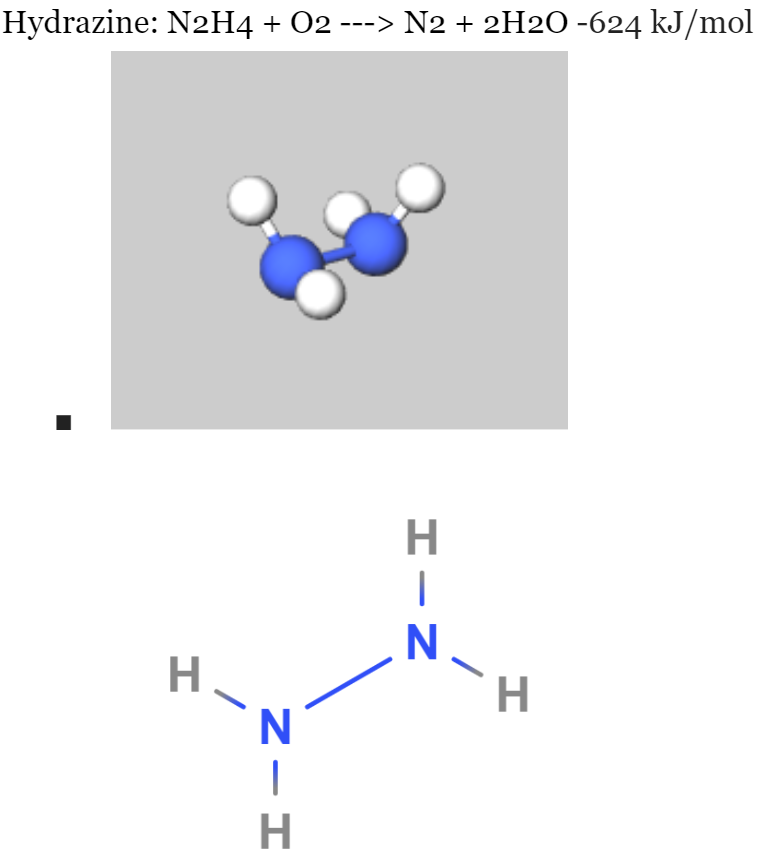
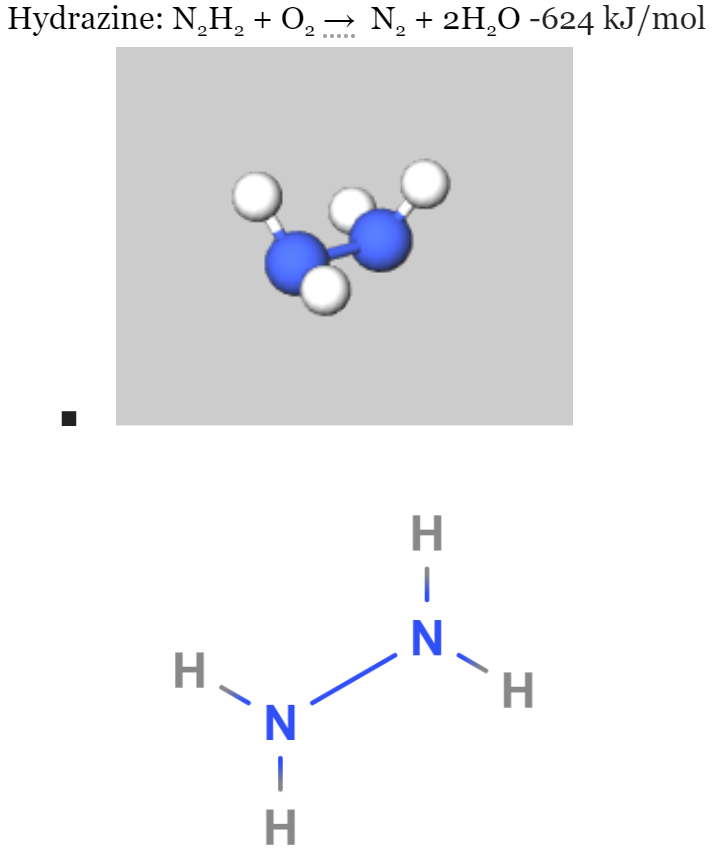
update subscripts

Changed region(s): [[0.0, 0.0, 1.0, 0.4994], [0.213, 0.5931, 0.7607, 0.9988], [0.3043, 0.1873, 0.639, 0.3746]]

diff --git a/chem/solid.html b/chem/solid.html
@@ -104,26 +104,23 @@
             <br>
             <div class="row">
                 <div class="col-sm" style="margin-left:5%">
-                    <h2>Homogeneous Propellants</h2>
                     <p>Over the course of history, solid fuels have developed into many forms for several different purposes. This section will cover gunpowder propellants, amateur propellants (which are solid propellants used for hobbyists), homogeneous propellants, and heterogeneous propellants. It is also worth noting here that each type of propellant must include a fuel and an oxidizer, but may also contain binders, catalysts, and plasticizers. The use of each ingredient is listed:</p> 
                 </div>
                 <div class="col-sm">
-                    <li>Oxidizers: principle ingredient that is used to produce high amounts of energy during combustion</li>
-                    <li>Fuel: enhances the heat of combustion, propellant density, combustion temperature, and hence the specific impulse</li>
-                    <li>Binder: provides a matrix in which solid granular ingredients are held together, which impacts the mechanical and chemical properties of the propellant, and typically act as a fuel</li>
-                    <li>Catalysts: helps increase or decrease the propellant burning rate; also referred to as the burning rate modifier</li>
-                    <li>Plasticizer: relatively low-viscosity organic liquid that contributes to the thermal energy on oxidation</li>
+                    <li><u>Oxidizers</u>: principle ingredient that is used to produce high amounts of energy during combustion</li>
+                    <li><u>Fuel</u>: enhances the heat of combustion, propellant density, combustion temperature, and hence the specific impulse</li>
+                    <li><u>Binder</u>: provides a matrix in which solid granular ingredients are held together, which impacts the mechanical and chemical properties of the propellant, and typically act as a fuel</li>
+                    <li><u>Catalysts</u>: helps increase or decrease the propellant burning rate; also referred to as the burning rate modifier</li>
+                    <li><u>Plasticizer</u>: relatively low-viscosity organic liquid that contributes to the thermal energy on oxidation</li>
                 </div>
             </div>
-            <p></p>
-             
-                
+            <p></p>     
             <br>
 
             <div class="row">
                 <div class="col-sm" style="margin-left:5%">
                     <h2>Black Powder / Gunpowder</h2>
-                    <p>Black powder propellants, also known as gunpowder, is composed of charcoal (fuel), potassium nitrite (oxidizer), and sulfur (fuel + catalyst). Though we are most familiar with gunpowder’s uses in guns, it is also used in low-power model rockets, such as Estes & Quest rockets. Gunpowder is often preferred over other types of solid propellants due to their cheap price and ease to produce.</p>
+                    <p>Black powder propellants, also known as gunpowder, is composed of charcoal (mainly pure carbon, fuel), potassium nitrite KNO<sub>2</sub> (oxidizer), and sulfur (fuel + catalyst). Though we are most familiar with gunpowder’s uses in guns, it is also used in low-power model rockets, such as Estes & Quest rockets. Gunpowder is often preferred over other types of solid propellants due to their cheap price and ease to produce.</p>
                 </div>
                 <div class="col-sm">
                     <img src="https://lh3.googleusercontent.com/proxy/qRiJ4q7ND8-Td9KUcGRA7e03p3VzzW5y-9KEgxrUEsSEVoAce5r2AA6jrSc9L4wKna7_-eWZ8nZ25JgcPyQMw-urdyYlyEjJzCy7B09RZnFHwRuuyVxrDN8" class="center-block" style="max-width: 80%" alt="">
@@ -138,7 +135,7 @@
                     <h2>Amateur Propellants</h2>
                     <p>The two types of amature propellants, which are propellants for rocket model hobbyists rather than for professional uses, that will be covered in this section are Zinc-Sulfur (ZS) propellants and “Candy” propellants. 
 
-                        ZS propellants are composed of powered zinc metal (fuel) and powered sulfur (oxidizer) and have a fast linear burn rate (at 2 m/s). However, it is not an effective propellant since most of the fuel will burn outside the combustion chamber of a rocket. “Candy” propellants, on the other hand, is composed of a sugar chemical, usually dextrose, sorbitol, or sucrose (fuel) and potassium nitrate (oxidizer). The contents are then melted together and the amorphous colloid is packed into a mold and made ready for combustion. Much like ZS propellants, “candy” propellants also only generate a low-medium specific impulse, making both of these propellants the perfect option for amateurs and rocket enthusiasts.
+                        ZS propellants are composed of powered zinc metal (fuel) and powered sulfur (oxidizer) and have a fast linear burn rate (at 2 m/s). However, it is not an effective propellant since most of the fuel will burn outside the combustion chamber of a rocket. “Candy” propellants, on the other hand, is composed of a sugar chemical, usually dextrose C<sub>6</sub>H<sub>12</sub>O<sub>6</sub>, sorbitol C<sub>6</sub>H<sub>14</sub>O<sub>6</sub>, or sucrose C<sub>12</sub>H<sub>22</sub>O<sub>11</sub> as fuel and potassium nitrate KNO<sub>2</sub> as the oxidizer. The contents are then melted together and the amorphous colloid is packed into a mold and made ready for combustion. Much like ZS propellants, “candy” propellants also only generate a low-medium specific impulse, making both of these propellants the perfect option for amateurs and rocket enthusiasts.
                         </p>
                 </div>
             </div>
@@ -146,18 +143,22 @@
             <div class="row">
                 <div class="col-sm" style="margin-left:5%">
                     <h2>Homogeneous Propellants</h2>
-                    <p>In homogeneous solid propellants, the ingredients are linked chemically and results in a homogenous physical structure. The three main types of homogeneous propellants are single base (NC and additives), double base (NC, NG, and additives), and triple base propellants (NC, NG, NQ, and additives). 
-
-                        In single-base propellants, the main ingredient and chief explosive is nitrocellulose (NC) that is gelatinized with ethyl alcohol as solvent. Small amounts of chemical stabilizers used to control the chemical stability, suppress flames, and enhance the propellant’s properties are also added. The propellant grain is then coated with carbon black to keep the surface smooth.
+                    <p>In homogeneous solid propellants, the ingredients are linked chemically and results in a homogenous physical structure. The three main types of homogeneous propellants are:
+                        <li>Single-base: composed of nitrocellulose ([C<sub>6</sub>H<sub>7</sub>(NO<sub>2</sub>)<sub>3</sub>O<sub>5</sub>]<sub>n</sub>) and additives</li>
+                        <li>Double-base: composed of nitrocellulose ([C<sub>6</sub>H<sub>7</sub>(NO<sub>2</sub>)<sub>3</sub>O<sub>5</sub>]<sub>n</sub>), nitroglycerin (C<sub>3</sub>H<sub>5</sub>N<sub>3</sub>O<sub>9</sub>), and additives</li>
+                        <li>Triple-base: composed of nitrocellulose ([C<sub>6</sub>H<sub>7</sub>(NO<sub>2</sub>)<sub>3</sub>O<sub>5</sub>]<sub>n</sub>), nitroglycerin (C<sub>3</sub>H<sub>5</sub>N<sub>3</sub>O<sub>9</sub>), nitroguanidine (CH<sub>4</sub>N<sub>4</sub>O<sub>2</sub>), and additives</li>
+                    </p>
+                    <p>
+                        In single-base propellants, the main ingredient and chief explosive is nitrocellulose (NC) that is gelatinized with ethyl alcohol as solvent. Small amounts of chemical stabilizers used to control the chemical stability, suppress flames, and enhance the propellant’s properties are also added. The propellant grain is then coated with carbon black to keep the surface smooth.</p>
                         
-                        In double-base propellants (also one of the oldest propellants), the main ingredients are NC and an energetic nitrate ester such as nitroglycerin (NG). Typically, out of the two monopropellant fuels, one acts as the unstable, high energy propellant and the other as the lower energy, stabilizing propellant. Double-base propellants are able to reach a medium-high performance of Isp ~ 235; however, with the addition of metal fuels, such as aluminium, the performance will be increased to Isp ~250.
+                        <p>In double-base propellants (also one of the oldest propellants), the main ingredients are NC and an energetic nitrate ester such as nitroglycerin (NG). Typically, out of the two monopropellant fuels, one acts as the unstable, high energy propellant and the other as the lower energy, stabilizing propellant. Double-base propellants are able to reach a medium-high performance of I<sub>sp</sub> ~ 235; however, with the addition of metal fuels, such as aluminium, the performance will be increased to I<sub>sp</sub> ~250.</p>
                         
-                        In triple-base propellants, upon the bases of double-base propellants, nitroguanidine (NQ) is also added. NQ contains a relatively high amount of hydrogen atoms with its molecular structure that lowers the average molecular weight of the propellant combustion products. Instead of NQ, crystalline ammonium perchlorate (AP) may also be used.
+                            <p>In triple-base propellants, upon the bases of double-base propellants, nitroguanidine (NQ) is also added. NQ contains a relatively high amount of hydrogen atoms with its molecular structure that lowers the average molecular weight of the propellant combustion products. Instead of NQ, crystalline ammonium perchlorate NH<sub>4</sub>ClO<sub>4</sub> (AP) may also be used.
                         </p>
                 </div>
                 <div class="col-sm">
                     <h2>Heterogeneous Propellants</h2>
-                    <p>Heterogeneous propellants, which are mixtures of crystalline oxidizer particles binded with a polymeric fuel matrix, typically have high concentrations of oxidizers and are used to give high specific impulse. The most commonly used solid oxidizers include ammonium nitrite composite propellant (ANCP) and ammonium perchlorate composite propellant (APCP). While ANCP uses either magnesium or aluminium as fuel and delivers medium performance (Isp~210), APCP uses aluminum fuel and delivers a high performance (Isp ~ 300). Other types of oxidizers include ammonium nitrate, ammonium dinitramide, and potassium nitrate. APCP is often found in many industrial and professional uses due to its high performance, moderate ease of manufacturing, and moderate cost. It is composed of 70% finely grounded oxidizer, 15-20% fine aluminium powder (fuel), and 10-15% polybutadiene acrylonitrile (PBAN) or Hydroxyl-terminated polybutadiene (HTPB) as the chemical that holds the above together. It is worth mentioning here that aluminium is often used as optimal fuel because it has a reasonable specific energy density, high volumetric energy density, and is difficult to ignite by accident. 
+                    <p>Heterogeneous propellants, which are mixtures of crystalline oxidizer particles binded with a polymeric fuel matrix, typically have high concentrations of oxidizers and are used to give high specific impulse. The most commonly used solid oxidizers include ammonium nitrate NH<sub>4</sub>NO<sub>3</sub> composite propellant (ANCP) and ammonium perchlorate NH<sub>4</sub>ClO<sub>4</sub> composite propellant (APCP). While ANCP uses either magnesium or aluminium as fuel and delivers medium performance (I<sub>sp</sub>~210), APCP uses aluminum fuel and delivers a high performance (I<sub>sp</sub> ~ 300). Other types of oxidizers include ammonium nitrite NH<sub>4</sub>NO<sub>2</sub>, ammonium dinitramide H<sub>4</sub>N<sub>4</sub>O<sub>4</sub>, and potassium nitrate KNO<sub>3</sub>. APCP is often found in many industrial and professional uses due to its high performance, moderate ease of manufacturing, and moderate cost. It is composed of 70% finely grounded oxidizer, 15-20% fine aluminium powder (fuel), and 10-15% polybutadiene acrylonitrile (PBAN) or Hydroxyl-terminated polybutadiene (HTPB) as the chemical that holds the above together. It is worth mentioning here that aluminium is often used as optimal fuel because it has a reasonable specific energy density, high volumetric energy density, and is difficult to ignite by accident. 
                         </p>
                 </div>
 
@@ -181,7 +182,7 @@
 
             <p>This is a highly exothermic reaction!</p>
 
-            <p>Keep in mind that these calculated values are based on ΔHof values - the actual values at the pressures and temperatures within a rocket booster may vary.</p>
+            <p>Keep in mind that these calculated values are based on ΔH of values - the actual values at the pressures and temperatures within a rocket booster may vary.</p>
                 
             <p>The combustion of aluminum and ammonium perchlorate produces aluminum oxide, aluminum chloride, water vapor, and nitrogen gas - the reaction is highly exothermic, and the heat released causes the gases to expand and provide thrust.</p>
                 

diff --git a/chem/compare.html b/chem/compare.html
@@ -101,30 +101,30 @@
             <div class="row">
                 <div class="col-sm">
                     <h2>Ethanol</h2>
-                    <p>Ethanol (C2H6O) is produced from plants such as corn, sugar cane and grains through fermentation. As a fuel, ethanol is commonly blended with gasoline in an 85/15 ethanol to gasoline blend. This blend produces fewer greenhouse gasses and does not contain toxic chemicals like benzene and appears to be a much better alternative to gasoline. However, ethanol production takes up large portions of land and constant growth of the same crop which leads to the erosion and worsens the quality of soil. Furthermore, ethanol costs about $1 per gallon more than petroleum gasoline.
+                    <p>Ethanol (C<sub>2</sub>H<sub>6</sub>O) is produced from plants such as corn, sugar cane and grains through fermentation. As a fuel, ethanol is commonly blended with gasoline in an 85/15 ethanol to gasoline blend. This blend produces fewer greenhouse gasses and does not contain toxic chemicals like benzene and appears to be a much better alternative to gasoline. However, ethanol production takes up large portions of land and constant growth of the same crop which leads to the erosion and worsens the quality of soil. Furthermore, ethanol costs about $1 per gallon more than petroleum gasoline.
                     </p>
                 </div>
                 <div class="col-sm">
                     <h2>Methane</h2>
-                    <p>Liquid methane, CH¬4, is used as a rocket fuel for Space X’s Raptor engine. As of now, no methane-powered rocket has made it to orbit. However, combustion-powered methane engines are being designed to be reused with limited to no refurbishment when the parts return to Earth. This is because methane prevents build-up of debris in the engines compared to hydrocarbon petroleum which allows the engine to have a higher performance while lowering the costs. </p>
+                    <p>Liquid methane, CH<sub>4</sub>, is used as a rocket fuel for Space X’s Raptor engine. As of now, no methane-powered rocket has made it to orbit. However, combustion-powered methane engines are being designed to be reused with limited to no refurbishment when the parts return to Earth. This is because methane prevents build-up of debris in the engines compared to hydrocarbon petroleum which allows the engine to have a higher performance while lowering the costs. </p>
                 </div>
                 <div class="col-sm">
                     <h2>Fluorine</h2>
-                    <p>Liquid fluorine (-188oC) has successfully been used as a rocket fuel. However, fluorine is an extremely toxic chemical and oxidizer that reacts violently with most substances. Although fluorine mixed with liquid oxygen, can create a high-performance fuel mixture, fluorine’s toxicity has driven away most nations with space programs.</p>
+                    <p>Liquid fluorine (-188<sup>o</sup>C) has successfully been used as a rocket fuel. However, fluorine is an extremely toxic chemical and oxidizer that reacts violently with most substances. Although fluorine mixed with liquid oxygen, can create a high-performance fuel mixture, fluorine’s toxicity has driven away most nations with space programs.</p>
                 </div>
             </div>
             <div class="row">
                 <div class="col-sm">
                     <h2>Unsymmetrical Dimethylhydrazine</h2>
-                    <p>Unsymmetrical Dimethylhydrazine (UDMH), (CH3)2NNH2, or 1,1-dimethylhydrazine is a highly toxic chemical that can be used as a rocket fuel. UDMH is a desirable substance to use because of its stability, easy ignition, and high-energy production. However, similarly to hydrazine, concerns about its toxicity, negative health and environmental effects has led to its reduction in usage and has been started to be replaced with fuels such as hydrogen. Countries such as Europe and Japan have eliminated the usage of UDMH while China and Russia plan to stop using UDMH as well.</p>
+                    <p>Unsymmetrical Dimethylhydrazine (UDMH), (CH<sub>3</sub>)<sub>2</sub>NNH<sub>2</sub>, or 1,1-dimethylhydrazine is a highly toxic chemical that can be used as a rocket fuel. UDMH is a desirable substance to use because of its stability, easy ignition, and high-energy production. However, similarly to hydrazine, concerns about its toxicity, negative health and environmental effects has led to its reduction in usage and has been started to be replaced with fuels such as hydrogen. Countries such as Europe and Japan have eliminated the usage of UDMH while China and Russia plan to stop using UDMH as well.</p>
                 </div>
                 <div class="col-sm">
                     <h2>Hydrogen Peroxide</h2>
-                    <p>Hydrogen peroxide (H2O2) is a highly efficient rocket fuel that could be used to replace oxidizers such as nitrogen tetroxide and liquid oxygen. Unlike water, hydrogen peroxide as contains two oxygen atoms, which is needed to burn rocket fuels. Additionally, hydrogen peroxide used in rocket fuel is a 97% hydrogen peroxide and 3% water mix, instead of the store available 3% hydrogen peroxide mix. When the hydrogen peroxide is combined with a catalyst, it produces enough oxygen to combust with alcohol fuels like methanol and ethanol which helps reduce the amount of non-renewable fuels needed to be produced.</p>
+                    <p>Hydrogen peroxide (H<sub>2</sub>O<sub>2</sub>) is a highly efficient rocket fuel that could be used to replace oxidizers such as nitrogen tetroxide and liquid oxygen. Unlike water, hydrogen peroxide as contains two oxygen atoms, which is needed to burn rocket fuels. Additionally, hydrogen peroxide used in rocket fuel is a 97% hydrogen peroxide and 3% water mix, instead of the store available 3% hydrogen peroxide mix. When the hydrogen peroxide is combined with a catalyst, it produces enough oxygen to combust with alcohol fuels like methanol and ethanol which helps reduce the amount of non-renewable fuels needed to be produced.</p>
                 </div>
                 <div class="col-sm">
                     <h2>Hydrazine</h2>
-                    <p>Hydrazine, N2H4, is a highly dangerous substance that can lead to severe damage to the human body. Short term exposure can lead to severe damage of the nervous system and potentially seizures and comas. If an accident were to occur and hydrazine were to fill the air, the fumes from the explosion have been proven to be deadly. In 1960, during a prototype missile launch by the Soviet Union, the hydrazine exploded killing 78 people through a combination of the explosion and deadly fumes. However, hydrazine is still commonly used because it’s a versatile, and reliable rocket fuel that can be stored safely for an indefinite period of time. Some forms can be used as a hypergolic propellant, which is a propellant that will ignite as soon as combined with an oxidizer. It can also be used by itself as a monopropellant where the hydrazine gets passed through a catalyst which instantaneously converts it into hot gas.
+                    <p>Hydrazine, N<sub>2</sub>H<sub>4</sub>, is a highly dangerous substance that can lead to severe damage to the human body. Short term exposure can lead to severe damage of the nervous system and potentially seizures and comas. If an accident were to occur and hydrazine were to fill the air, the fumes from the explosion have been proven to be deadly. In 1960, during a prototype missile launch by the Soviet Union, the hydrazine exploded killing 78 people through a combination of the explosion and deadly fumes. However, hydrazine is still commonly used because it’s a versatile, and reliable rocket fuel that can be stored safely for an indefinite period of time. Some forms can be used as a hypergolic propellant, which is a propellant that will ignite as soon as combined with an oxidizer. It can also be used by itself as a monopropellant where the hydrazine gets passed through a catalyst which instantaneously converts it into hot gas.
                         </p>
                 </div>
                 
@@ -133,7 +133,7 @@
             <div class="row">
                 <div class="col-sm">
                     <h2>Monomethylhydrazine and Dinitrogen Tetroxide</h2>
-                    <p>Monomethylhydrazine (MMH), CH3(NH)NH2, is used in the military for missiles and rockets and is used in orbital spacecraft. Compared to UDMH, it has a higher density and has better performance. MMH is formed from the reaction of methylamine (CH3NH2) and ammonia (NH3). MMH is used alongside its oxidizer nitrogen tetroxide (N2O4) for orbital maneuvering systems and reaction control systems. MMH and nitrogen tetroxide ignite on contact, so they have to be loaded separately onto a spacecraft carefully and separately over a five-day period.
+                    <p>Monomethylhydrazine (MMH), CH<sub>3</sub>(NH)NH<sub>2</sub>, is used in the military for missiles and rockets and is used in orbital spacecraft. Compared to UDMH, it has a higher density and has better performance. MMH is formed from the reaction of methylamine (CH<sub>3</sub>NH<sub>2</sub>) and ammonia (NH<sub>3</sub>). MMH is used alongside its oxidizer nitrogen tetroxide (N<sub>2</sub>O<sub>4</sub>) for orbital maneuvering systems and reaction control systems. MMH and nitrogen tetroxide ignite on contact, so they have to be loaded separately onto a spacecraft carefully and separately over a five-day period.
                         Like UDMH, is a toxic chemical that can cause irritation in the eyes, throat and respiratory system from small, 10-minute exposures. So far, there has been no cases or information on acute lethality towards humans.
                         
                         </p>
@@ -141,7 +141,7 @@
                 
                 <div class="col-sm">
                     <h2>Molecular Hydrogen</h2>
-                    <p>Liquid hydrogen combined with liquid oxygen is one of the most efficiently known and currently used rocket propellant in the world due to hydrogen being extremely light and powerful, having the lowest molecular weight and burns at 5,500oF. However, to liquify hydrogen and oxygen, both must be stored at cryogenic temperatures. Liquid hydrogen is stored at -252oC and must be insulated from all potential sources of heat during flight and storage to prevent it from evaporating or boiling. Liquid hydrogen expands rapidly and absorbs heat which can cause the tank it's stored in to explode. Metals that encounter liquid hydrogen’s cold temperatures can also become brittle and liquid hydrogen is able to leak through welded seams. To contain liquid hydrogen, high costs, insulating techniques are required to maintain the low temperature which makes it impractical for smaller storage and usage purposes.
+                    <p>Liquid hydrogen combined with liquid oxygen is one of the most efficiently known and currently used rocket propellant in the world due to hydrogen being extremely light and powerful, having the lowest molecular weight and burns at 5,500<sup>o</sup>F. However, to liquify hydrogen and oxygen, both must be stored at cryogenic temperatures. Liquid hydrogen is stored at -252<sup>o</sup>C and must be insulated from all potential sources of heat during flight and storage to prevent it from evaporating or boiling. Liquid hydrogen expands rapidly and absorbs heat which can cause the tank it's stored in to explode. Metals that encounter liquid hydrogen’s cold temperatures can also become brittle and liquid hydrogen is able to leak through welded seams. To contain liquid hydrogen, high costs, insulating techniques are required to maintain the low temperature which makes it impractical for smaller storage and usage purposes.
                         Metallic hydrogen would theoretically be an even more powerful rocket fuel as it would require even higher pressure and lower temperature to contain as a solid. So far however, this has not yet been accomplished, but the possibility of harnessing metallic hydrogen could be a crucial breakthrough in rocket fuel development. 
                         
                     </p>

diff --git a/chem/index.html b/chem/index.html
@@ -110,11 +110,11 @@
             <br>
             <div class="row">
                 <div class="col-sm">
-                    <p>ISP (specific impulse) essentially boils down to a measure of efficiency. It is defined as the thrust divided by the rate at which the weight of the fuel is consumed in order to produce that thrust. There are variations of specific impulse such as density specific impulse which considers the size of the fuel, as opposed to the mass. However, when dealing with rockets, density specific impulse is disregarded and mass specific impulse is taken. It is an especially good performance measure for engines that might be used to launch vehicles into space. For a launch vehicle, the goal is to produce as much thrust as possible with the least amount of fuel. </p>
+                    <p>I<sub>sp</sub> (specific impulse) essentially boils down to a measure of efficiency. It is defined as the thrust divided by the rate at which the weight of the fuel is consumed in order to produce that thrust. There are variations of specific impulse such as density specific impulse which considers the size of the fuel, as opposed to the mass. However, when dealing with rockets, density specific impulse is disregarded and mass specific impulse is taken. It is an especially good performance measure for engines that might be used to launch vehicles into space. For a launch vehicle, the goal is to produce as much thrust as possible with the least amount of fuel. </p>
 
                     <img src="assets/text1.png" class="center-block" style="max-width: 100%;" alt="">
 
-                    <p>Based on the specific impulse equation, a high thrust in turn means a high Isp value. The higher the Isp value, the better use we can make out of the fuel to change our velocity. There is a caveat to this however, some types of propulsion systems can give very high specific impulse values, but a low absolute value of thrust - sometimes not enough to overcome the weight or the drag of the rocket. As a result, we would use an engine with a lower specific impulse, but that gives a high value of thrust. </p>
+                    <p>Based on the specific impulse equation, a high thrust in turn means a high I<sub>sp</sub> value. The higher the I<sub>sp</sub> value, the better use we can make out of the fuel to change our velocity. There is a caveat to this however, some types of propulsion systems can give very high specific impulse values, but a low absolute value of thrust - sometimes not enough to overcome the weight or the drag of the rocket. As a result, we would use an engine with a lower specific impulse, but that gives a high value of thrust. </p>
                 </div>
                 <div class="col-sm">
                     <img src="https://images.unsplash.com/photo-1515272751348-25380c6c1f9c?ixlib=rb-1.2.1&ixid=eyJhcHBfaWQiOjEyMDd9&auto=format&fit=crop&w=334&q=80  " class="center-block" style="max-width: 80%;" alt="">
@@ -127,7 +127,7 @@
                 <div class="col-sm">
                     <p>Solid Rocket Boosters (SRBs) are a pair of rockets alongside the main engines to provide the shuttle with the thrust required to pull out of the Earth’s gravitational pull. After reaching an altitude of about 45 km, the boosters are released from the shuttle and returned to the Earth, landing in the ocean to be recovered for reuse. The booster provides about a combined 5.3 million pounds of force at launch, enough power to provide enough thrust for the shuttle, fuel tank, cargo and itself into the air.</p>
 
-                    <p>The propellant motor is the largest motor developed for space travel and the first one to be used on a manned mission. The motor contains; separation system, operational flight instrument, pyrotechnics, recovery system, deceleration system, thrust control system and safety destruct system. Each rocket also contains over 1,000,000 pounds of a propellant mixture made up of ammonium perchlorate (NH4ClO4, an oxidizer, 69.4 percent), aluminum (fuel, 16 percent), iron oxide (catalyst, 0.4 percent), polymer (binding agent, 12.04 percent), and an epoxy curing agent (1.96 percent).  </p>
+                    <p>The propellant motor is the largest motor developed for space travel and the first one to be used on a manned mission. The motor contains; separation system, operational flight instrument, pyrotechnics, recovery system, deceleration system, thrust control system and safety destruct system. Each rocket also contains over 1,000,000 pounds of a propellant mixture made up of ammonium perchlorate (NH<sub>4</sub>ClO<sub>4</sub>, an oxidizer, 69.4 percent), aluminum (fuel, 16 percent), iron oxide (catalyst, 0.4 percent), polymer (binding agent, 12.04 percent), and an epoxy curing agent (1.96 percent).  </p>
                     <img src="https://i.ytimg.com/vi/kaGuVRfwzv4/maxresdefault.jpg" class="center-block" style="max-width: 80%;" alt="">
                 </div>
 

diff --git a/chem/liquid.html b/chem/liquid.html
@@ -85,14 +85,14 @@
                     <p>The premise behind the operation of hypergolic propellants is quite simple. The fuel and oxidizer spontaneously ignite on contact with each other, providing thrust - the simplicity here makes them very easy to control, and very reliable. For this reason, they are commonly used in spacecraft maneuvering systems and reaction control systems, where a high degree of precision is necessary.</p> 
 
                     <p>Some common hypergolic fuels are:</p>
-                    <li>Hydrazine - N2H4</li>
-                    <li>Monomethyl Hydrazine (MMH) - CH3(NH)NH2</li>
-                    <li>Unsymmetrical Dimethyl Hydrazine (UDMH) - H2NN(CH3)2</li>
+                    <li>Hydrazine - N<sub>2</sub>H<sub>4</sub></li>
+                    <li>Monomethyl Hydrazine (MMH) - CH<sub>3</sub>(NH)NH<sub>2</sub>2</li>
+                    <li>Unsymmetrical Dimethyl Hydrazine (UDMH) - H<sub>2</sub>NN(CH<sub>3</sub>)<sub>2</sub></li>
                     <li>Aerozine 50 (50% MMH, 50% UDMH)</li>
 
                     <p>Some common hypergolic oxidizers are:</p>
-                    <li>Nitrogen Tetroxide (NTO) - N2O4</li>
-                    <li>Nitric Acid - HNO3</li>
+                    <li>Nitrogen Tetroxide (NTO) - N<sub>2</sub>O<sub>4</sub></li>
+                    <li>Nitric Acid - HNO<sub>3</sub></li>
 
                     <p>A NTO/MMH combination was used on NASA’s Space Shuttle, in its orbital maneuvering and reaction control systems. More recently, SpaceX’s Dragon spacecraft uses an NTO/MMH combination to power its Draco and SuperDraco thrusters, which are used for both propulsion and high-precision maneuvers. The spacecraft’s SuperDraco thrusters, specifically, are used in the event of in-flight aborts, and could potentially be used to perform propulsive landings.</p>
                 </div>
@@ -118,11 +118,11 @@
                     <p>Cryogenic propellants are generally gases at SATP - they must be stored at very low temperatures to be kept in liquid form. Unlike hypergolic propellants, these cryogenic propellants do not spontaneously ignite - and so they require a much more complex engine. However, they are typically much more effective as propellants. Another consideration when it comes to cryogenic fuels is the fact that additional systems are required to chill the cryogenic fuel tanks to the required temperature. Cryogenic fuels have been used on all sorts of space vehicles, typically for propulsion.</p>
 
                     <p>Some cryogenic fuels include:</p>
-                    <li>Liquid Methane - CH4</li>
-                    <li>Liquid Hydrogen - H2</li>
-                    <li>Liquid Fluorine - F2</li>
+                    <li>Liquid Methane - CH<sub>4</sub></li>
+                    <li>Liquid Hydrogen - H<sub>2</sub></li>
+                    <li>Liquid Fluorine - F<sub>2</sub></li>
 
-                    <p>The most common cryogenic oxidizer, by far, is liquid oxygen (O2), also known as LOX.</p>
+                    <p>The most common cryogenic oxidizer, by far, is liquid oxygen (O<sub>2</sub>), also known as LOX.</p>
 
                     <p>The combustion of hydrogen and oxygen is highly efficient, and provides one of the highest specific impulses out there. Two notable rockets that have made use of hydrolox (LOX/LH2) combustion are the Saturn V - specifically on its 2nd and 3rd stage J2 engines - and the Space Shuttle - on its RS-25 main engines. These RS-25 main engines burning hydrolox will also be used on NASA’s upcoming SLS.</p>
 
